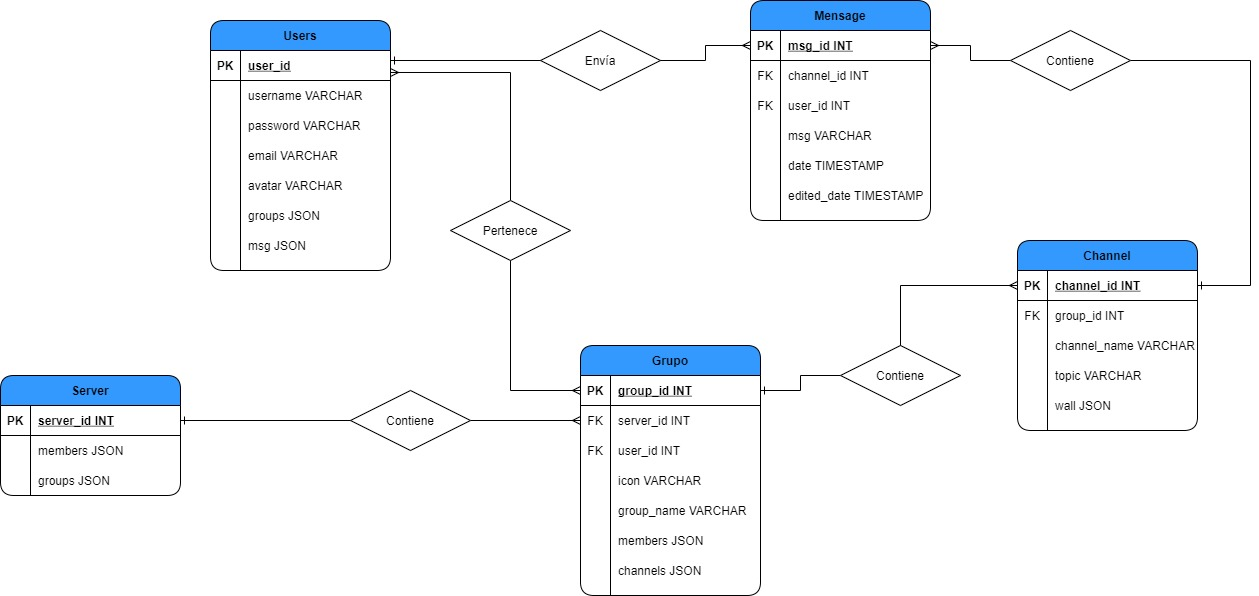
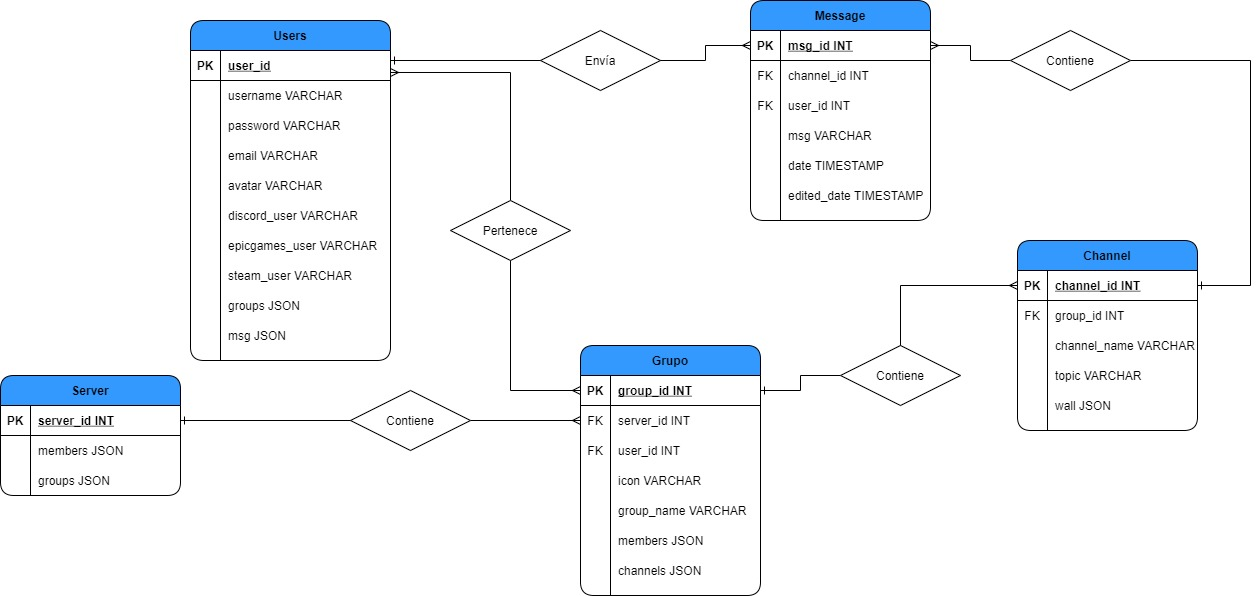
Fix bugs

diff --git a/apilfg/models.py b/apilfg/models.py
@@ -2,74 +2,94 @@ from django.db import models
 from django.conf import settings
 from django.utils import timezone
 
-# Creamos los modelos del MER
+# We create the MER models
 
-# Tabla Server con los campos id (primary key), members y groups
+
+# Server table with fields id (primary key), members and groups
 class Server(models.Model):
-    # Propiedades
-    server_id = models.BigAutoField(primary_key=True)  # ID automática, aumenta un valor en cada registro nuevo
-    members = models.JSONField()
-    groups = models.JSONField()
 
-    # Método mágico
+    # Properties
+    # Automatic ID, increases by one value with each new record
+    server_id = models.BigAutoField(primary_key=True)
+    members = models.JSONField(default=dict)
+    groups = models.JSONField(default=dict)
+
+    # Magic method
     def __str__(self):
         return self.server_id
 
-# Tabla Users con los campos id (primary key), password, email, una url para el avatar, grupos a los que pertenece y escritos por el usuario
+
+# Users table with the fields id (primary key), password, email, a url for the avatar, groups to which the user
+# belongs to and writings by the user
 class Users(models.Model):
-    # Propiedades
-    user_id = models.BigAutoField(primary_key=True)  # ID automática, aumenta un valor en cada registro nuevo
-    password = models.CharField(max_length=20)
-    email = models.CharField(max_length=50)
-    avatar = models.CharField(max_length=100)
-    groups = models.JSONField()
-    msg = models.JSONField()
 
-    # Método mágico
+    # Properties
+    # Automatic ID, increases by one value with each new record
+    user_id = models.BigAutoField(primary_key=True)
+    password = models.CharField(blank=True, max_length=50)
+    email = models.EmailField('email', unique=True)
+    avatar = models.TextField()
+    discord_user = models.CharField(blank=True, max_length=50)
+    epicgames_user = models.CharField(blank=True, max_length=50)
+    steam_user = models.CharField(blank=True, max_length=50)
+    groups = models.JSONField(default=dict)
+    msg = models.JSONField(default=dict)
+
+    # Magic method
     def __str__(self):
-        return self.username
+        return self.email
 
-# Tabla Grupos con los campos id (primary key), con las foreigns keys de servidor y usuario, url para la imagen del icono,
-# nombre del grupo, miembros que pertenecen al grupo y canales que posee el grupo
+
+# Groups table with the fields id (primary key), with the foreign keys of server and user, url for the image
+# of the icon, name of the group, members belonging to the group and channels owned by the group. icon, name
+# of the group, members belonging to the group and channels owned by the group.
 class Group(models.Model):
-    # Propiedades
-    group_id = models.BigAutoField(primary_key=True)  # ID automática, aumenta un valor en cada registro nuevo
-    server_id = models.ForeignKey(Server, on_delete=models.CASCADE, on_update=models.CASCADE)
-    user_id = models.ForeignKey(Users, on_delete=models.CASCADE, on_update=models.CASCADE)
-    icon = models.CharField(max_length=100)
-    group_name = models.CharField(max_length=20)
-    members = models.JSONField()
-    channels = models.JSONField()
 
-    # Método mágico
+    # Properties
+    # Automatic ID, increases by one value with each new record
+    group_id = models.BigAutoField(primary_key=True)
+    server_id = models.ForeignKey(Server, on_delete=models.CASCADE)
+    user_id = models.ForeignKey(Users, on_delete=models.CASCADE)
+    icon = models.CharField(blank=True, max_length=100)
+    group_name = models.CharField(blank=True, max_length=50)
+    members = models.JSONField(default=dict)
+    channels = models.JSONField(default=dict)
+
+    # Magic method
     def __str__(self):
         return self.group_name
 
-# Tabla Canales con los campos id (primary key), la foreign key del grupo al que pertenece el canal, el nombre del canal,
-# el topic para las busquedas y un muro donde almacenar los mensajes
-class Channel(models.Model):
-    # Propiedades
-    channel_id = models.BigAutoField(primary_key=True)  # ID automática, aumenta un valor en cada registro nuevo
-    group_id = models.ForeignKey(Group, on_delete=models.CASCADE, on_update=models.CASCADE)
-    channel_name = models.CharField(max_length=50)
-    topic = models.CharField(max_length=20)
-    wall = models.JSONField()
 
-    # Método mágico
+# Table Channels with the fields id (primary key), the foreign key of the group to which the channel belongs,
+# the name of the channel, the topic for the searches and a wall where to store the messages.
+class Channel(models.Model):
+
+    # Properties
+    # Automatic ID, increases by one value with each new record
+    channel_id = models.BigAutoField(primary_key=True)
+    group_id = models.ForeignKey(Group, on_delete=models.CASCADE)
+    channel_name = models.CharField(blank=True, max_length=50)
+    topic = models.CharField(blank=True, max_length=50)
+    wall = models.JSONField(default=dict)
+
+    # Magic method
     def __str__(self):
         return self.channel_name
 
-# Tabla Mensaje con los campos id (primary key), las foreigns keys del canal que pertenece y usuario que lo escribe,
-# el mensaje escrito, la fecha de escritura y la de edición
-class Mensage(models.Model):
-    # Propiedades
-    msg_id = models.BigAutoField(primary_key=True)  # ID automática, aumenta un valor en cada registro nuevo
-    channel_id = models.ForeignKey(Channel, on_delete=models.CASCADE, on_update=models.CASCADE)
-    user_id = models.ForeignKey(Users, on_delete=models.CASCADE, on_update=models.CASCADE)
-    msg = models.CharField(max_length=250)
+
+# Table Message with the fields id (primary key), the foreign keys of the channel it belongs to and the user who
+# writes it, the message written, the date it was written and the date it was edited.
+class Message(models.Model):
+
+    # Properties
+    # Automatic ID, increases by one value with each new record
+    msg_id = models.BigAutoField(primary_key=True)
+    channel_id = models.ForeignKey(Channel, on_delete=models.CASCADE)
+    user_id = models.ForeignKey(Users, on_delete=models.CASCADE)
+    msg = models.CharField(blank=True, max_length=250)
     date = models.DateTimeField(default=timezone.now)
     edited_date = models.DateTimeField(default=timezone.now)
 
-    # Método mágico
+    # Magic method
     def __str__(self):
         return self.msg

diff --git a/apilfg/serializers.py b/apilfg/serializers.py
@@ -1,33 +1,41 @@
-# Serializar el modelo de datos
+# Serialise the data model
 
-# Importar los serializadores
+
+# Import serialisers
 from rest_framework import serializers
 
-# Nos traemos los modelos de datos definidos en el MER
-from .models import Server, Group, Users, Mensage, Channel
 
-# Crear los serializadores para los modelos
+# We bring with us the data models defined in the MER
+from .models import Server, Group, Users, Message, Channel
+
+
+# Create the serialisers for the models
 class ServerSerializer(serializers.HyperlinkedModelSerializer):
     class Meta:
         model = Server
-        fields = ('members', 'groups')
+        fields = ('server_id', 'members', 'groups')
+
 
 class GroupSerializer(serializers.HyperlinkedModelSerializer):
     class Meta:
         model = Group
-        fields = ('server_id', 'user_id', 'icon', 'group_name', 'members', 'channels')
+        fields = ('group_id', 'server_id', 'user_id', 'icon', 'group_name', 'members', 'channels')
+
 
 class UsersSerializer(serializers.HyperlinkedModelSerializer):
     class Meta:
         model = Users
-        fields = ('username', 'password', 'email', 'avatar', 'groups', 'msg')
+        fields = ('user_id', 'password', 'email', 'avatar', 'discord_user', 'epicgames_user', 'steam_user',
+                  'groups', 'msg')
 
-class MensageSerializer(serializers.HyperlinkedModelSerializer):
+
+class MessageSerializer(serializers.HyperlinkedModelSerializer):
     class Meta:
-        model = Mensage
-        fields = ('channel_id', 'user_id', 'msg', 'date', 'edited_date')
+        model = Message
+        fields = ('msg_id', 'channel_id', 'user_id', 'msg', 'date', 'edited_date')
+
 
 class ChannelSerializer(serializers.HyperlinkedModelSerializer):
     class Meta:
         model = Channel
-        fields = ('group_id', 'channel_name', 'topic', 'wall')
+        fields = ('channel_id', 'group_id', 'channel_name', 'topic', 'wall')

diff --git a/apilfg/views.py b/apilfg/views.py
@@ -1,31 +1,37 @@
-# Creamos las vistas
+# We create the views
 
-# Importamos las vistas
+# We import the views
 from rest_framework import viewsets
 
-# Importamos los serializers creados
-from .serializers import ServerSerializer, GroupSerializer, UsersSerializer, MensageSerializer, ChannelSerializer
+# We import the created serializers
+from .serializers import ServerSerializer, GroupSerializer, UsersSerializer, MessageSerializer, ChannelSerializer
 
-# Importamos los modelos creados
-from .models import Server, Group, Users, Mensage, Channel
+# We import the created models
+from .models import Server, Group, Users, Message, Channel
 
-# Indicamos lo que debe serializar
+
+# We indicate what to serialise
 class ServerViewSet(viewsets.ModelViewSet):
     queryset = Server.objects.all().order_by('server_id')
     serializer_class = ServerSerializer
+
 
 class GroupViewSet(viewsets.ModelViewSet):
     queryset = Group.objects.all().order_by('group_id')
     serializer_class = GroupSerializer
 
+
 class UsersViewSet(viewsets.ModelViewSet):
     queryset = Users.objects.all().order_by('user_id')
     serializer_class = UsersSerializer
 
-class MensageViewSet(viewsets.ModelViewSet):
-    queryset = Mensage.objects.all().order_by('mensage_id')
-    serializer_class = MensageSerializer
+
+class MessageViewSet(viewsets.ModelViewSet):
+    queryset = Message.objects.all().order_by('msg_id')
+    serializer_class = MessageSerializer
+
 
 class ChannelViewSet(viewsets.ModelViewSet):
     queryset = Channel.objects.all().order_by('channel_id')
     serializer_class = ChannelSerializer
+

diff --git a/apilfg/urls.py b/apilfg/urls.py
@@ -1,17 +1,18 @@
-# Añadimos toda la configuración y patrones de las rutas
+# We add all the configuration and patterns of the routes.
 
-from django.urls import include, pathlib
+from django.urls import include, path
 from rest_framework import routers
 from . import views
 
 router = routers.DefaultRouter()
-router.resgister(r'server', views.ServerViewSet)
-router.register(r'group', views.GroupsViewSet)
+
+router.register(r'server', views.ServerViewSet)
+router.register(r'group', views.GroupViewSet)
 router.register(r'user', views.UsersViewSet)
-router.register(r'mensage', views.MensageViewSet)
+router.register(r'message', views.MessageViewSet)
 router.register(r'channel', views.ChannelViewSet)
 
-# Incluimos url login
+# We include url login
 urlpatterns = [
     path('', include(router.urls)),
     path('api-auth/', include('rest_framework.urls', namespace='rest_framework'))

diff --git a/apilfg/admin.py b/apilfg/admin.py
@@ -1,10 +1,10 @@
 from django.contrib import admin
-from .models import Server, Group, Users, Mensage, Channel
+from .models import Server, Group, Users, Message, Channel
 
-# Registro de modelos
+# Model registration
 
 admin.site.register(Server)
 admin.site.register(Group)
 admin.site.register(Users)
-admin.site.register(Mensage)
+admin.site.register(Message)
 admin.site.register(Channel)

diff --git a/weblfg/urls.py b/weblfg/urls.py
@@ -1,8 +1,8 @@
-# Configurar endpoints
+# Configure endpoints
 
 from django.contrib import admin
 
-# Importamos las urls que teníamos definidas dentro de nuestra api
+# We import the urls that we had defined within our api
 from django.urls import path, include
 
 urlpatterns = [

diff --git a/weblfg/settings.py b/weblfg/settings.py
@@ -130,3 +130,9 @@ STATIC_URL = '/static/'
 # https://docs.djangoproject.com/en/3.2/ref/settings/#default-auto-field
 
 DEFAULT_AUTO_FIELD = 'django.db.models.BigAutoField'
+
+# Email configuration
+
+EMAIL_BACKEND = 'django.core.mail.backends.console.EmailBackend'
+SITE_ID = 1
+
